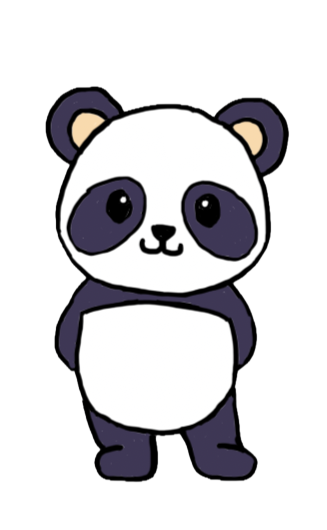
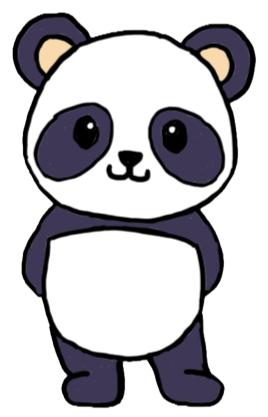
progress changes

diff --git a/components/progress.jsx b/components/progress.jsx
@@ -9,7 +9,7 @@ export default function Progress() {
   const [showAnimation, setShowAnimation] = useState(true);
   const [currentPandaColor, setCurrentPandaColor] = useState(require("../assets/progress_col1.png"));
   const [points, setPoints] = useState(0);
-  const [unlockedColors, setUnlockedColors] = useState(["col1"]); 
+  const [unlockedColors, setUnlockedColors] = useState(["col1"]);
 
   const colorKeys = {
     black: "col1",
@@ -92,8 +92,6 @@ export default function Progress() {
 
                 setCurrentPandaColor(colorImages[colorKey]);
                 await AsyncStorage.setItem("currentPandaKey", colorKey);
-
-                Alert.alert("Purchase Successful", `You have successfully purchased the ${color} color!`);
               } catch (error) {
                 console.error("Error updating points:", error.message);
                 Alert.alert("Error", "Failed to update points. Please try again.");
@@ -103,12 +101,12 @@ export default function Progress() {
         ]
       );
     } else {
-      Alert.alert("Insufficient Points", `You need ${cost - points} more points to buy this color.`);
+      Alert.alert("Oops!", `You need ${cost - points} more points to unlock this color. Keep playing and come back later!`);
     }
   };
 
   return (
-    <View style={[styles.container, !showAnimation && styles.orangeBackground]}>
+    <View style={styles.container}>
       <SafeAreaView style={styles.safeArea}>
         <GoBackButton screen={"Overview"} />
         <View style={styles.pointsContainer}>
@@ -116,40 +114,32 @@ export default function Progress() {
           <Text style={styles.pointsText}>{points}</Text>
         </View>
       </SafeAreaView>
-      {showAnimation ? (
-        <View style={{ justifyContent: "center", alignItems: "center", width: "100%" }}>
-          <Animation
-            message="Great Job!"
-            imageSource={require("../assets/progress.webp")}
-            animationDuration={4000}
-            onAnimationEnd={handleAnimationEnd}
-          />
-        </View>
-      ) : (
-        <>
-          <Text style={styles.progressText}>PanDo</Text>
-          <View style={styles.progressPandaContainer}>
-            <Image source={currentPandaColor} style={styles.progressPanda} />
-          </View>
-          <View style={styles.colorCirclesContainer}>
-            {Object.entries(colorKeys).map(([color, key]) => (
-              <View key={key} style={styles.colorOption}>
-                <TouchableOpacity
-                  style={[
-                    styles.colorCircle,
-                    { backgroundColor: color === "black" ? "#333" : color }, 
-                    unlockedColors.includes(key) && styles.unlockedColor, 
-                  ]}
-                  onPress={() => handleColorChange(color)}
-                />
-                {color !== "black" && !unlockedColors.includes(key) && (
-                  <Text style={styles.costText}>{colorCosts[color]} points</Text>
-                )}
-              </View>
-            ))}
-          </View>
-        </>
-      )}
+      <Text style={styles.headerText}>
+        Let’s give your Panda{"\n"}a new look!
+      </Text>
+      <View style={styles.progressPandaContainer}>
+        <Image source={currentPandaColor} style={styles.progressPanda} />
+      </View>
+      <View style={styles.colorCirclesContainer}>
+        {Object.entries(colorCosts).map(([color, cost]) => {
+          const colorKey = colorKeys[color];
+          return (
+            <View key={color} style={styles.colorOption}>
+              <TouchableOpacity
+                style={[
+                  styles.colorCircle,
+                  { backgroundColor: color === "black" ? "#333" : color },
+                  unlockedColors.includes(colorKey) && styles.unlockedColor,
+                ]}
+                onPress={() => handleColorChange(color)}
+              />
+              {color !== "black" && !unlockedColors.includes(colorKey) && (
+                <Text style={styles.costText}>{cost} points</Text>
+              )}
+            </View>
+          );
+        })}
+      </View>
     </View>
   );
 }
@@ -161,15 +151,20 @@ const styles = StyleSheet.create({
     justifyContent: "center",
     backgroundColor: "#f9cf9c",
   },
-  orangeBackground: {
-    backgroundColor: "#f9cf9c",
-  },
   safeArea: {
     position: "absolute",
     top: 0,
     left: 0,
     width: "100%",
     padding: 10,
+  },
+  headerText: {
+    fontSize: 28,
+    fontWeight: "bold",
+    textAlign: "center",
+    marginTop: 20,
+    lineHeight: 36,
+    color: "#333",
   },
   pointsContainer: {
     position: "absolute",
@@ -196,11 +191,6 @@ const styles = StyleSheet.create({
     fontWeight: "bold",
     color: "#333",
   },
-  progressText: {
-    marginTop: 20,
-    fontWeight: "bold",
-    fontSize: 30,
-  },
   progressPandaContainer: {
     width: 400,
     height: 450,
@@ -211,17 +201,23 @@ const styles = StyleSheet.create({
     alignItems: "center",
     justifyContent: "center",
     marginVertical: 20,
+    shadowColor: "#000",
+    shadowOffset: { width: 0, height: 5 },
+    shadowOpacity: 0.3,
+    shadowRadius: 7,
+    elevation: 10,
   },
   progressPanda: {
-    width: 350,
-    height: 350,
+    width: 300,
+    height: 300,
     resizeMode: "contain",
   },
   colorCirclesContainer: {
     flexDirection: "row",
     justifyContent: "space-around",
     width: "80%",
-    marginTop: 20,
+    marginTop: 30,
+    paddingHorizontal: 10,
   },
   colorOption: {
     alignItems: "center",
@@ -230,12 +226,7 @@ const styles = StyleSheet.create({
     width: 50,
     height: 50,
     borderRadius: 25,
-    borderWidth: 2,
-    borderColor: "#d9d9d9",
-  },
-  unlockedColor: {
-    borderColor: "#8FFF79",
-    borderWidth: 4,
+    backgroundColor: "#fff",
   },
   costText: {
     marginTop: 8,
